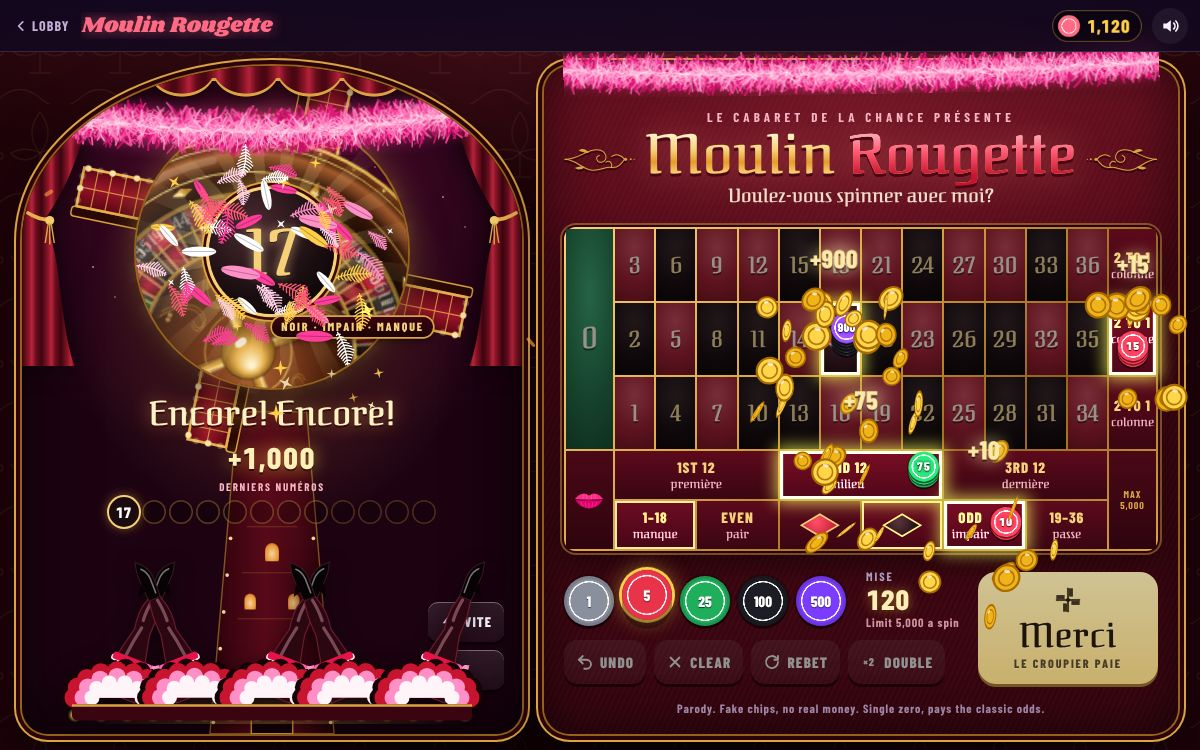
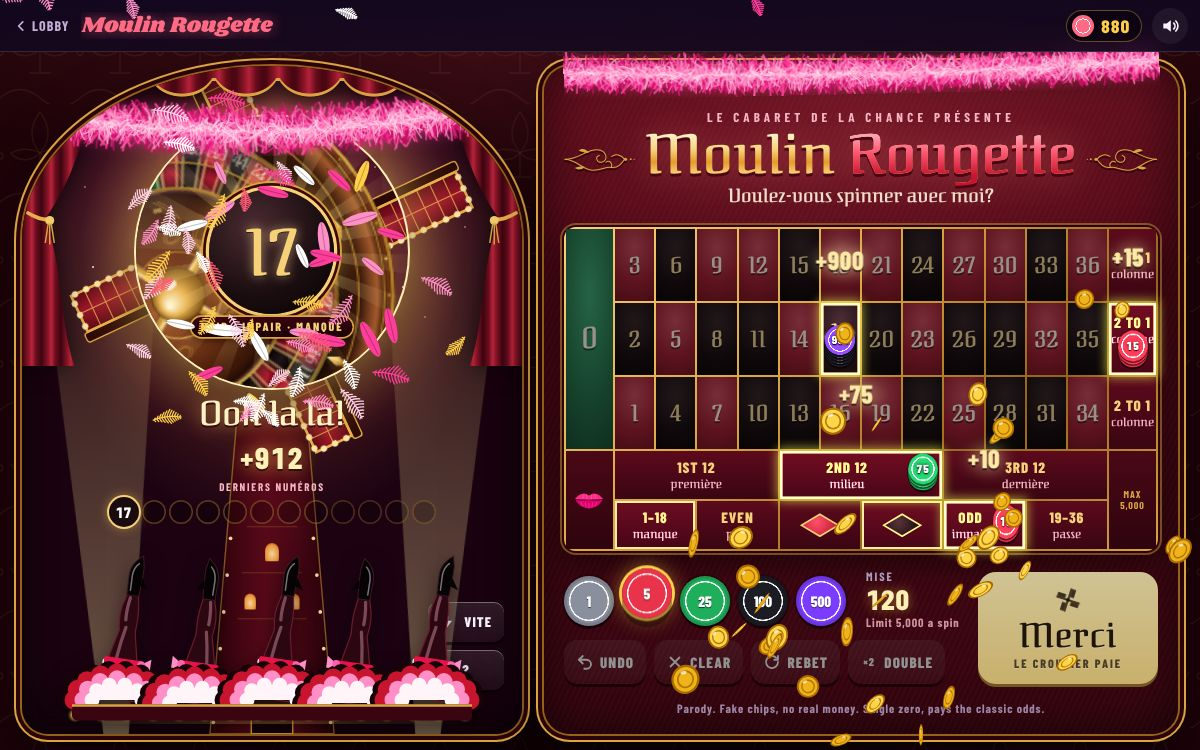
Finish Moulin Rougette (roulette) and Top Buns (crash)
Moulin Rougette: single-zero roulette in a Belle Epoque cabaret, the ball
planned to land in the pre-drawn pocket, RTP exactly 36/37.
Top Buns: synthwave crash game, crash point sealed at take-off for a 97%
RTP under any strategy, with wingmen, sonic booms and a parachute eject.

Debug hashes that force outcomes now only work under automation in
Moulin Rougette, Top Buns and The Mattress, and the shared mute button
gets a 46px touch target.

Claude-Session: https://claude.ai/code/session_014qAxLGadNofD3Bd2JFD7UC

diff --git a/blue-movie-casino/moulin-rougette/index.html b/blue-movie-casino/moulin-rougette/index.html
@@ -133,7 +133,9 @@ main {
 .sails .bulb { fill: #ffe8a6; animation: bulb 1s steps(1) infinite }
 .sails .bulb.b1 { animation-delay: -.5s }
 .stage.spinning .sails .bulb { animation-duration: .32s }
-.stage.spinning .sails { filter: drop-shadow(0 0 6px rgba(255, 196, 96, .7)) }
+/* a static warm halo behind the spinning sails (a filter on the rotating SVG would re-rasterise every frame) */
+.wheelwrap::before { content: ""; position: absolute; inset: -22%; z-index: -2; border-radius: 50%; pointer-events: none; background: radial-gradient(closest-side, rgba(255, 196, 96, .34), rgba(255, 150, 80, .12) 60%, transparent); opacity: 0; transition: opacity .5s }
+.stage.spinning .wheelwrap::before, .stage.party .wheelwrap::before { opacity: 1 }
 .wheel {
   position: absolute;
   inset: 0;
@@ -402,11 +404,11 @@ body:not(.focus) .stage.compact .medal-sub { visibility: hidden }
 .spin-halo { grid-area: spin; align-self: stretch; margin: -5px; border-radius: 22px; pointer-events: none; opacity: 0; box-shadow: 0 0 0 2px rgba(255, 236, 170, .8), 0 0 28px 6px rgba(255, 196, 80, .6); transition: opacity .3s }
 .dock.ready .spin-halo { animation: halo 1.5s ease-in-out infinite }
 /* win party on the stage: spotlights sweep, the sails' bulbs and the footlights race */
-.spots { position: absolute; inset: 0; z-index: 1; pointer-events: none; opacity: 0; transition: opacity .5s }
+.spots { position: absolute; inset: 0; z-index: 1; pointer-events: none; opacity: 0; transition: opacity .7s }
 .spots i { position: absolute; bottom: -4%; width: 34%; height: 120%; transform-origin: 50% 100%; background: linear-gradient(0deg, rgba(255, 236, 170, .38), rgba(255, 210, 120, .12) 55%, transparent 85%); clip-path: polygon(44% 100%, 56% 100%, 100% 0, 0 0); mix-blend-mode: screen }
 .spots i:first-child { left: 2% }
 .spots i:last-child { right: 2% }
-.stage.party .spots { opacity: 1 }
+.stage.party .spots { opacity: 1; transition-duration: .08s } /* lights snap on, fade off */
 .stage.party .spots i:first-child { animation: sweepL 1.3s ease-in-out infinite alternate }
 .stage.party .spots i:last-child { animation: sweepR 1.3s ease-in-out infinite alternate }
 .stage.party .sails .bulb { animation-duration: .16s }
@@ -928,8 +930,9 @@ body.focus .focus-cap { opacity: 1; translate: 0 0 }
   const TIER_FR = ['', 'OOH LA LA!', 'MAGNIFIQUE!', 'TRÈS CHAUD!', 'LE GRAND FINALE!'];
 
   /* ---------- Debug hooks (URL hash): #force=17,0 queues results, #speed=4 plays spins faster,
-     #demo places a showcase layout and spins it, #freeze=5.2 holds the spin at that plan time. ---------- */
-  const HASH = new URLSearchParams(location.hash.slice(1));
+     #demo places a showcase layout and spins it, #freeze=5.2 holds the spin at that plan time.
+     They only work under automation (navigator.webdriver), so visitors can't force results. ---------- */
+  const HASH = new URLSearchParams(navigator.webdriver ? location.hash.slice(1) : '');
   const DEBUG = {
     force: (HASH.get('force') || '').split(',').filter((s) => s !== '').map(Number).filter((n) => Number.isInteger(n) && n >= 0 && n <= 36),
     speed: Number(HASH.get('speed')) || 0,
@@ -1568,8 +1571,29 @@ body.focus .focus-cap { opacity: 1; translate: 0 0 }
     c.fill();
     return cv;
   }
+  // Sprites are cached per size: the phone wheel flips between its header size and its flown-up size every
+  // spin, and rebuilding the big set (gradients, 37 numbers, frets) mid-flight would stall the fly-in.
+  const spriteCache = new Map();
+  function spritesFor(R) {
+    for (const s of spriteCache.values()) if (Math.abs(s.R - R) < 1.5) return s;
+    const s = { R, rotor: buildRotor(R), stator: buildStator(R), shine: buildShine(R) };
+    spriteCache.set(R, s);
+    if (spriteCache.size > 2) spriteCache.delete(spriteCache.keys().next().value); // the header size + the flown-up size
+    return s;
+  }
+  // Phones: build the flown-up set ahead of the first spin, while the page is idle.
+  const focusSize = () => {
+    const barH = document.querySelector('.cbar')?.getBoundingClientRect().bottom || 52;
+    return Math.min(innerWidth - 40, (innerHeight - barH) * 0.6);
+  };
+  function prewarm() {
+    if (!isPhone() || !wrap.offsetWidth || document.body.classList.contains('focus')) return;
+    const dpr = Math.min(2, devicePixelRatio || 1);
+    const px = Math.max(64, Math.round(focusSize() * dpr));
+    (window.requestIdleCallback || ((f) => setTimeout(f, 50)))(() => spritesFor((px / 2) * 0.985));
+  }
   function buildSprites(R) {
-    sprites = { R, rotor: buildRotor(R), stator: buildStator(R), shine: buildShine(R) };
+    sprites = spritesFor(R);
   }
 
   /* ---------- Wheel state, sizing and render loop ---------- */
@@ -1605,11 +1629,14 @@ body.focus .focus-cap { opacity: 1; translate: 0 0 }
     document.fonts.load('40px Federant').then(() => {
       if (fontsReady || !document.fonts.check('40px Federant')) return;
       fontsReady = true;
+      spriteCache.clear();
       if (canvas.width) buildSprites((canvas.width / 2) * 0.985);
+      setTimeout(prewarm, 400);
     }).catch(() => {});
   };
   tryFont();
   addEventListener('load', tryFont);
+  setTimeout(() => { if (!fontsReady) prewarm(); }, 3000);
   if (document.fonts) document.fonts.ready.then(tryFont);
 
   function draw(now) {
@@ -2344,7 +2371,7 @@ body.focus .focus-cap { opacity: 1; translate: 0 0 }
       const r = wrap.getBoundingClientRect();
       const barH = document.querySelector('.cbar')?.getBoundingClientRect().bottom || 52;
       const avail = innerHeight - barH;
-      const size = Math.min(innerWidth - 40, avail * 0.6);
+      const size = focusSize();
       const cx = innerWidth / 2;
       const cy = barH + avail * 0.44;
       wheel.scale = size / r.width;
@@ -2649,7 +2676,7 @@ body.focus .focus-cap { opacity: 1; translate: 0 0 }
         fx.burst(cells[id].el, { type: 'coin', count: 6 + Math.min(14, pays(id)), speed: [200, 520] });
       }, i * 110);
     });
-    const quip = WIN();
+    const quip = DEBUG.demo ? 'Ooh la la!' : WIN(); // the #demo still (gallery thumbnail) always gets the classic
     callout(streak > 1 ? `${quip} ×${streak}` : quip, 'win');
     winlineEl.textContent = '+0';
     fx.countUp(winlineEl, 0, r.ret, { ms: Math.min(1600, 500 + won.length * 120 + Math.log10(r.ret + 1) * 250), format: (v) => `+${fmt(v)}` });
@@ -2710,6 +2737,7 @@ body.focus .focus-cap { opacity: 1; translate: 0 0 }
   function party(ms, boost) {
     sailBoost = Math.max(sailBoost, fx.reducedMotion ? Math.min(2, boost) : boost);
     snd.whirr(Math.min(1.6, 0.7 + boost * 0.06));
+    if (!stage.classList.contains('party')) S.noise({ type: 'lowpass', freq: 1600, dur: 0.05, vol: 0.14 }); // spotlights clunk on
     stage.classList.add('party');
     clearTimeout(partyTimer);
     partyTimer = setTimeout(() => stage.classList.remove('party'), ms);

diff --git a/blue-movie-casino/top-buns/index.html b/blue-movie-casino/top-buns/index.html
@@ -641,8 +641,9 @@ body {
   const crashFrom = (u) => Math.min(CAP_C, Math.max(100, Math.floor(97 / (1 - u)))); // cents
 
   /* Debug hooks (harmless; fake chips): #crash=1.5,3.2 forces crash points in turn, #warp=s starts the flight s seconds in,
-     #speed=k runs the flight clock k times faster, #thumb stages the gallery still, #debug exposes window.TopBuns. */
-  const HP = new URLSearchParams(location.hash.slice(1));
+     #speed=k runs the flight clock k times faster, #thumb stages the gallery still, #debug exposes window.TopBuns.
+     They only work under automation (navigator.webdriver), so visitors can't force results. */
+  const HP = new URLSearchParams(navigator.webdriver ? location.hash.slice(1) : '');
   const DBG = {
     crash: (HP.get('crash') || '').split(',').map(Number).filter((v) => v >= 1).map((v) => Math.min(CAP_C, Math.round(v * 100))),
     warp: Math.max(0, +HP.get('warp') || 0),

diff --git a/blue-movie-casino/shared/casino.css b/blue-movie-casino/shared/casino.css
@@ -134,18 +134,20 @@ a:focus-visible, button:focus-visible, input:focus-visible, select:focus-visible
   box-shadow: 0 0 0 1.5px rgba(0, 0, 0, .35), 0 2px 4px rgba(0, 0, 0, .4);
 }
 .cbar-mute {
+  position: relative;
   flex: none;
   cursor: pointer;
   display: grid;
   place-items: center;
-  width: 36px;
-  height: 36px;
+  width: 38px;
+  height: 38px;
   border: 0;
   border-radius: 50%;
   background: rgba(255, 255, 255, .06);
   color: var(--ink);
 }
 .cbar-mute svg { width: 20px; height: 20px }
+.cbar-mute::after { content: ""; position: absolute; inset: -4px } /* 46px touch target */
 .cbar-mute[aria-pressed="true"] { color: var(--ink-soft); background: rgba(255, 77, 109, .14) }
 @media (max-width: 480px) {
   .cbar { gap: 8px }
